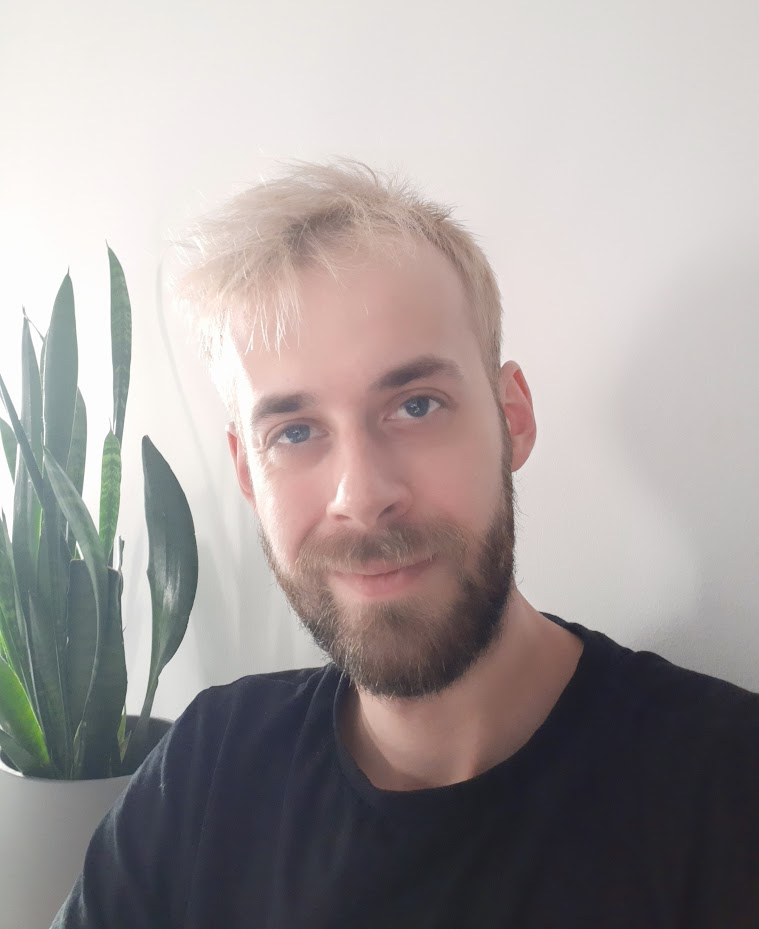
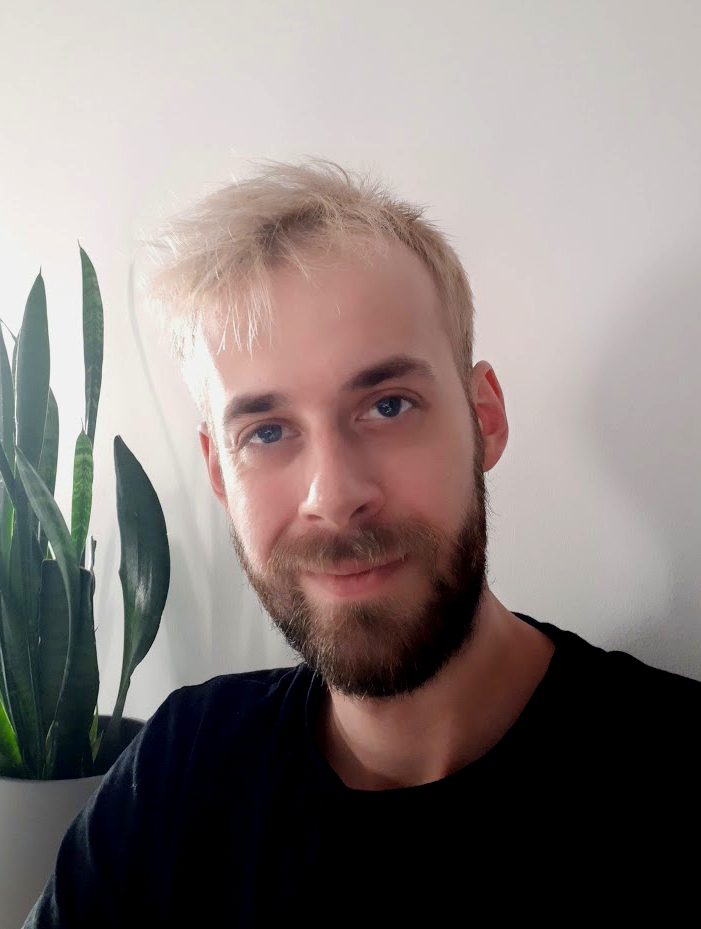
add skills and communities to people section, unify people's photos sizes

diff --git a/people/index.html b/people/index.html
@@ -35,6 +35,8 @@ featured_image:
 				Currently he is engaged in the DARIAH-PL project as the coordinator of Laboratory for supervised semantic discovery. 
 				He is chairing the “Bibliographical Data” Working Group at the DARIAH-ERIC consortium. 
 				Interested in cultural and scientific metadata, mostly bibliographical, and documentation of literary culture.</p>
+			<p><b>Skills: </b>Project management, Project design, Research infrastructures, Complex problems solving</p>
+			<p><b>Communities: </b>DARIAH ERIC, OPERAS RI, Bibliodata WG at DARIAH</p>
 
 		  </div>
 		</div>
@@ -61,7 +63,8 @@ featured_image:
 				A literary scholar and Python programmer. 
 				Co-author of the “Polish Literary Bibliography”. Main areas of research interest: space in contemporary literature and Bibliographic Data Science.
 			</p>
-
+			<p><b>Skills: </b>Python programming, data processing, data analysis</p>
+			<p><b>Communities: </b>TRIPLE, Dariah.lab, SPUBi, NPRH, Czech Science Foundation</p>
 		  </div>
 		</div>
 	  </section>
@@ -73,7 +76,7 @@ featured_image:
 		<div class="wrap grid">
 	  
 		  <div class="about__image">
-			<img src="{{ '/images/people/PH.JPG' | relative_url }}" alt="">
+			<img src="{{ '/images/people/PH.jpg' | relative_url }}" alt="">
 	  
 			{% include component-socials.html %}
 		  </div>
@@ -89,7 +92,8 @@ featured_image:
 				At the same time, he cooperates with the Department of Information Studies at the Faculty of Journalism, 
 				Information and Bibliology of the University of Warsaw, where he conducts classes for first and second degree students.
 			</p>
-
+			<p><b>Skills: </b>Project management, Python programming, R programming, bash scripting, NLP, text and data mining, data processing, data analysis</p>
+			<p><b>Communities: </b>Bibliodata WG at DARIAH, Association of Internet Researchers, Everyone at the Table, libraries (previously: National Library of Poland)</p>
 		  </div>
 		</div>
 	  </section>
@@ -116,7 +120,8 @@ featured_image:
 				She has published papers at the intersection of sociology, linguistics, and literary studies in “Digital Scholarship in the Humanities”, 
 				“International Journal of Law and Psychiatry”, and “Qualitative Sociology Review”, among others.
 			</p>
-
+			<p><b>Skills: </b>R programming, Python programming, NLP, text mining, data analysis, statistics, social media mining</p>
+			<p><b>Communities: </b>PTS</p>
 		  </div>
 		</div>
 	  </section>
@@ -141,7 +146,8 @@ featured_image:
 			<p> Specialist at the Digital Humanities Centre at the Institute of Literary Research of the Polish Academy of Sciences. 
 				Bibliographic data curator and Python programmer responsible for data processing and analysis.
 			</p>
-
+			<p><b>Skills: </b>Python programming, data processing, data analysis</p>
+			<p><b>Communities: </b>Academic libraries (previously: Łódź University academic library)</p>
 		  </div>
 		</div>
 	  </section>
@@ -153,7 +159,7 @@ featured_image:
 		<div class="wrap grid">
 	  
 		  <div class="about__image">
-			<img src="{{ '/images/people/MG.JPG' | relative_url }}" alt="">
+			<img src="{{ '/images/people/MG.jpg' | relative_url }}" alt="">
 	  
 			{% include component-socials.html %}
 		  </div>
@@ -167,7 +173,8 @@ featured_image:
 				An aspiring digital humanist, previously worked for the government, creating systems to support forest seed management. 
 				Industrial automation programmer.
 			</p>
-
+			<p><b>Skills: </b>PHP, SQL, Solr, HTML, CSS, JavaScript, Wikidata, discovery systems</p>
+			<p><b>Communities: </b>Public institutions</p>
 		  </div>
 		</div>
 	  </section>
@@ -193,7 +200,8 @@ featured_image:
 				Bibliographic data specialist and Python programmer. 
 				He is responsible for data processing and analysis as well as for the production of tools allowing for the automation of the activities of IBL PAN employees.
 			</p>
-
+			<p><b>Skills: </b>Python programming, data processing, data analysis</p>
+			<p><b>Communities: </b>Bibliodata WG at DARIAH, Research infrastructures</p>
 		  </div>
 		</div>
 	  </section>

diff --git a/_sass/_includes/_section__about.scss b/_sass/_includes/_section__about.scss
@@ -86,7 +86,6 @@
 		}
 		
 		.about__content {
-			margin-top: 64px;
 
 			.subtitle {
 				margin-bottom: 24px;
